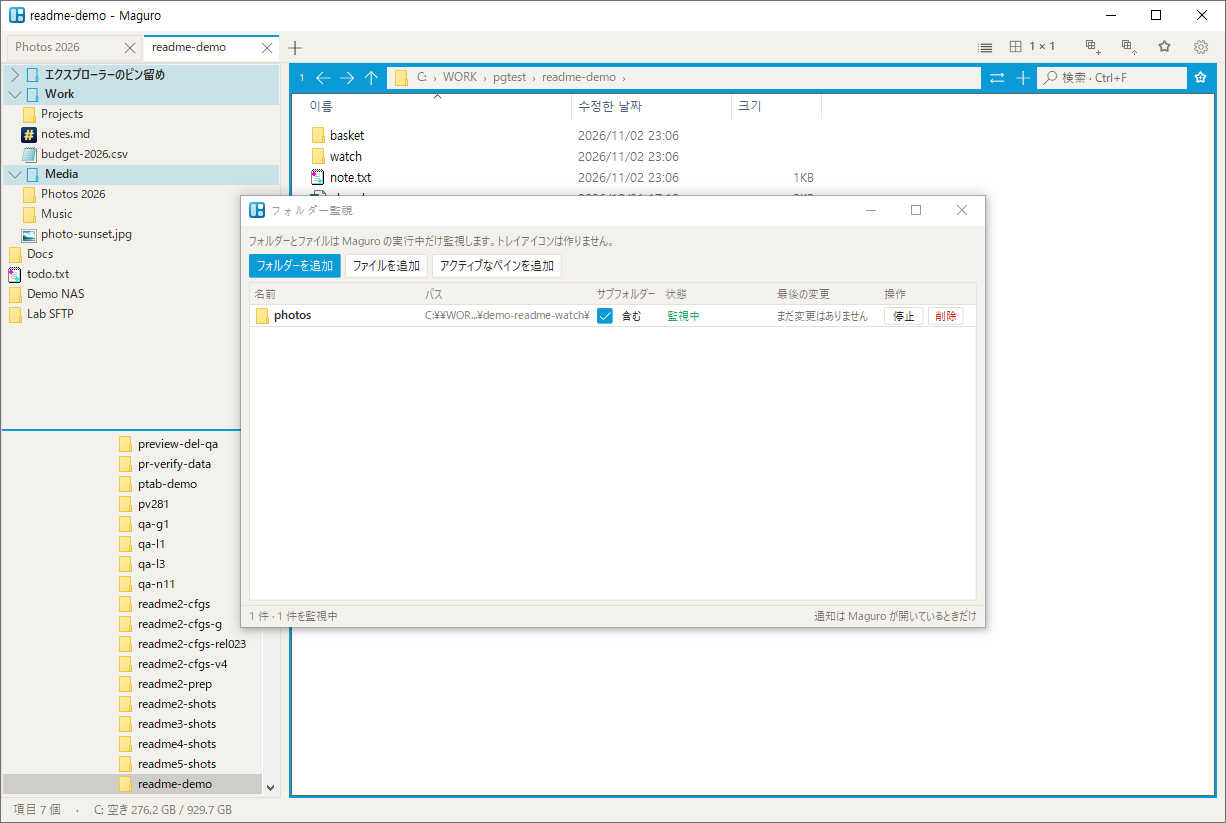
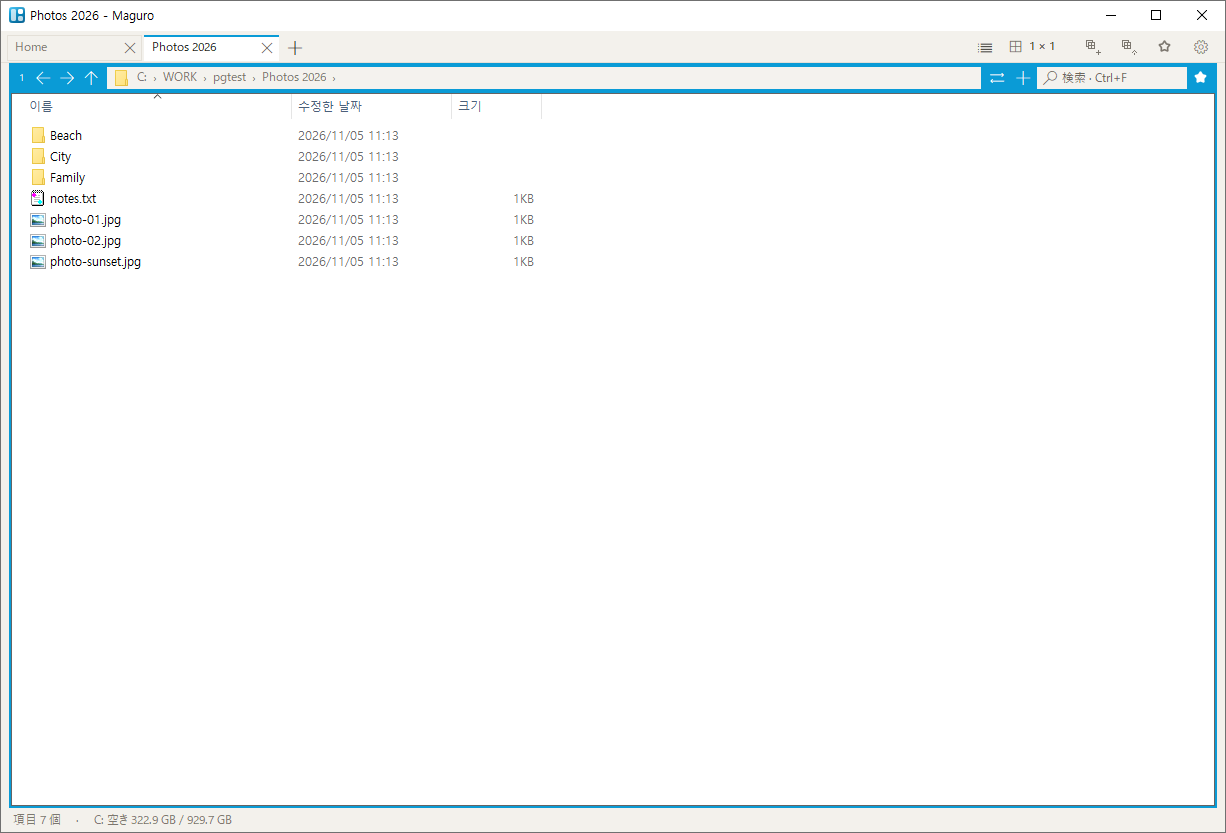
docs: retake Win+Alt+V and Excel tidy README screenshots
Retake feature_win_shift_v (en/ko/ja): Photos 2026 opened as a new tab
via clipboard hotkey, no Folder Watch overlay, left sidebar off so no
real Explorer pins or WORK/pgtest tree paths.

Retake feature_excel_readonly_tidy into images-v4 (current MaguroExcelTidy
after PR #312 shared UI) and point README §12 at v4.

Changed region(s): [[0.0, 0.0, 0.9918, 1.0], [0.6509, 0.2126, 0.6819, 0.243], [0.0, 0.5164, 0.031, 0.5468]]

diff --git a/docs/CAPTURES.md b/docs/CAPTURES.md
@@ -61,15 +61,15 @@ servers.png / servers.ko.png / servers.ja.png 는 **실제 호스트·자격 증
 | feature_basket.ja.png | 파일 바구니 | MaguroBasket | light/ja | 데모 | 28005 B (544×513) | capture-features.ps1 | DWM |  |
 | feature_basket.ko.png | 파일 바구니 | MaguroBasket | light/ko | 데모 | 27101 B (544×513) | capture-features.ps1 | DWM |  |
 | feature_basket.png | 파일 바구니 | MaguroBasket | light/en | 데모 | 24121 B (546×513) | capture-features.ps1 | DWM |  |
-| feature_excel_readonly_tidy.ja.png | Excel 정리 | MaguroExcelTidy | light/ja | readme-excel-demo sheet.xlsx | 7225 B (422×244) | 컨텍스트 메뉴 id=0x8007 | DWM |  |
-| feature_excel_readonly_tidy.ko.png | Excel 정리 | MaguroExcelTidy | light/ko | readme-excel-demo sheet.xlsx | 5391 B (422×244) | 컨텍스트 메뉴 id=0x8007 | DWM |  |
-| feature_excel_readonly_tidy.png | Excel 정리 | MaguroExcelTidy | light/en | readme-excel-demo sheet.xlsx | 5837 B (422×244) | 컨텍스트 메뉴 id=0x8007 | DWM |  |
+| feature_excel_readonly_tidy.ja.png | Excel 정리 | MaguroExcelTidy | light/ja | readme-excel-demo sheet.xlsx | 7672 B (422×244) | 컨텍스트 메뉴 id=0x8007 (PR #312 shared UI) | DWM | images-v4 재촬영 |
+| feature_excel_readonly_tidy.ko.png | Excel 정리 | MaguroExcelTidy | light/ko | readme-excel-demo sheet.xlsx | 5797 B (422×244) | 컨텍스트 메뉴 id=0x8007 (PR #312 shared UI) | DWM | images-v4 재촬영 |
+| feature_excel_readonly_tidy.png | Excel 정리 | MaguroExcelTidy | light/en | readme-excel-demo sheet.xlsx | 6217 B (422×244) | 컨텍스트 메뉴 id=0x8007 (PR #312 shared UI) | DWM | images-v4 재촬영 |
 | feature_folder_watch.ja.png | 폴더 감시 | MaguroWatch | light/ja | 데모 | 20342 B (746×433) | capture-features.ps1 | DWM |  |
 | feature_folder_watch.ko.png | 폴더 감시 | MaguroWatch | light/ko | 데모 | 16051 B (746×433) | capture-features.ps1 | DWM |  |
 | feature_folder_watch.png | 폴더 감시 | MaguroWatch | light/en | 데모 | 15631 B (746×433) | capture-features.ps1 | DWM |  |
-| feature_win_shift_v.ja.png | Win+Alt+V | MaguroMain 새 탭 | light/ja | 클립보드=Photos 2026 경로 | 305006 B (1226×823) | Win+Alt+V 코드 (Folder Watch 닫은 뒤) | DWM | Folder Watch 오버레이 없이 Photos 2026 탭 |
-| feature_win_shift_v.ko.png | Win+Alt+V | MaguroMain 새 탭 | light/ko | 클립보드=Photos 2026 경로 | 303262 B (1226×823) | Win+Alt+V 코드 (Folder Watch 닫은 뒤) | DWM | Folder Watch 오버레이 없이 Photos 2026 탭 |
-| feature_win_shift_v.png | Win+Alt+V | MaguroMain 새 탭 | light/en | 클립보드=Photos 2026 경로 | 301386 B (1226×823) | Win+Alt+V 코드 (Folder Watch 닫은 뒤) | DWM | Folder Watch 오버레이 없이 Photos 2026 탭 |
+| feature_win_shift_v.ja.png | Win+Alt+V | MaguroMain 새 탭 | light/ja | 클립보드=Photos 2026 경로 | 26231 B (1226×833) | WM_HOTKEY CLIP_HOTKEY_ID=3 (sidebar off) | DWM | Photos 2026 새 탭 · 사이드바/실경로 없음 |
+| feature_win_shift_v.ko.png | Win+Alt+V | MaguroMain 새 탭 | light/ko | 클립보드=Photos 2026 경로 | 25784 B (1226×833) | WM_HOTKEY CLIP_HOTKEY_ID=3 (sidebar off) | DWM | Photos 2026 새 탭 · 사이드바/실경로 없음 |
+| feature_win_shift_v.png | Win+Alt+V | MaguroMain 새 탭 | light/en | 클립보드=Photos 2026 경로 | 25455 B (1226×833) | WM_HOTKEY CLIP_HOTKEY_ID=3 (sidebar off) | DWM | Photos 2026 새 탭 · 사이드바/실경로 없음 |
 | help.ja.png | 도움말 창 | MaguroHelp/브라우저 | light/ja | — | 29368 B (760×672) | F1 | DWM |  |
 | help.ko.png | 도움말 창 | MaguroHelp/브라우저 | light/ko | — | 22566 B (760×672) | F1 | DWM |  |
 | help.png | 도움말 창 | MaguroHelp/브라우저 | light/en | — | 24725 B (760×672) | F1 | DWM |  |
@@ -185,6 +185,7 @@ powershell -NoProfile -ExecutionPolicy Bypass -File docs\capture\capture-main.ps
 ## 변경 이력 (관련)
 
 - **2026-11-04:** 톱니바퀴 메뉴를 세션 / 도구 / 보기 / 모양 / 동작 / 설정으로 나눔. 열린 메뉴 샷은 images-v3에 없음 (위 절). 닫힌 톱니 단추만 있는 메인 창 샷은 다시 찍지 않음.
+- **2026-11-05:** docs/retake-15-12 — feature_win_shift_v* 재촬영(Photos 2026 새 탭, 사이드바·Folder Watch·실경로 제거). feature_excel_readonly_tidy* images-v4로 재촬영(PR #312 shared MaguroExcelTidy) + README §12 src를 v4로.
 - **2026-11-04:** UI 통일 1차. 폴더 감시, 파일 바구니, 탭 목록, 일괄 이름 바꾸기, 세션 목록의 버튼을 공유 페인터로 옮김. 위 캡처를 다시 찍을 것. 설정 토글은 유지.
 - **2026-11-04:** UI 통일 팝업·알림. 감시 토스트, 즐겨찾기 없음, 네트워크 실패, 빠른 복사 진행·충돌, 세션 목록, 단축키, 레이아웃 고르기, 선택 칸, 서버 연결 푸터를 공유 페인터로 옮김. 빠른 복사 진행 창은 480×148. 이름 묻기, 즐겨찾기 관리, 정보, Excel, 확인 창은 이전 배치 그대로다.
 - **2026-11-04:** images-v3 전체(90장) 포터블 재촬영. servers*=가짜 sftp.example.com. preview_peek*=F3 MaguroPeek+실 JPG. feature_win_shift_v*=클립보드 경로 새 탭(Folder Watch 없음). settings_ctxmenu*=CTX_PAGE=8 Right-click menu items. workspaces*=MaguroAsk 슬롯명 Desk. docs/capture/* 재사용 스크립트. CAPTURES 크기 실측 갱신.

diff --git a/README.ko.md b/README.ko.md
@@ -142,7 +142,7 @@ Space 또는 F3으로 그림, PDF, Office, HTML, Markdown, 코드, CSV, ZIP, HWP
 
 `.xlsx` / `.xlsm`을 우클릭 → **읽기 모드로 열기**로 잠그지 않고 Excel을 엽니다. **A1·100%로 정리**는 선택을 A1로, 확대를 100%로 맞추고, 필요하면 첫 시트를 고르며 `.bak.xlsx` 백업도 남길 수 있습니다.
 
-<p align="center"><img width="420" alt="Excel을 A1·100%로 정리" src="docs/images-v3/feature_excel_readonly_tidy.ko.png"></p>
+<p align="center"><img width="420" alt="Excel을 A1·100%로 정리" src="docs/images-v4/feature_excel_readonly_tidy.ko.png"></p>
 
 ### 13. 파일 바구니
 

diff --git a/README.md b/README.md
@@ -142,7 +142,7 @@ Right-click the favourites panel (or a group) → **Add server connection…**. 
 
 Right-click an `.xlsx` / `.xlsm` → **Open read-only** to open Excel without locking the file for others. **Tidy to A1 · 100%** resets selection to A1, zoom to 100%, optionally selects the first sheet, and can keep a `.bak.xlsx` backup.
 
-<p align="center"><img width="420" alt="Tidy Excel workbooks to A1 and 100% zoom" src="docs/images-v3/feature_excel_readonly_tidy.png"></p>
+<p align="center"><img width="420" alt="Tidy Excel workbooks to A1 and 100% zoom" src="docs/images-v4/feature_excel_readonly_tidy.png"></p>
 
 ### 13. File basket
 
